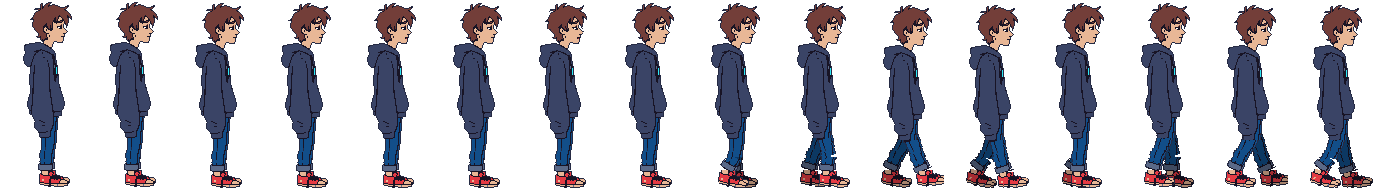
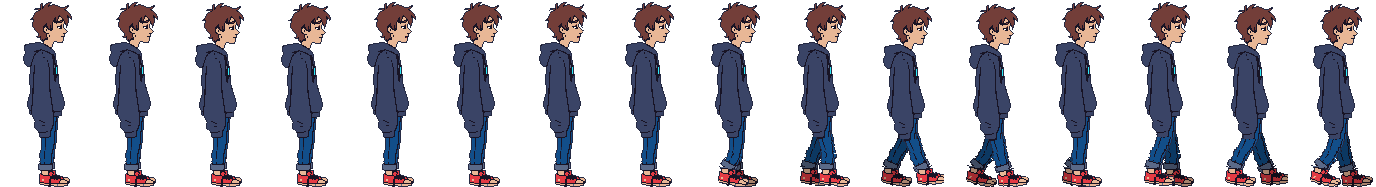
Max und Opa: Füße stehen beim Atmen still, keine Kerbe am Knie, Opas Saum ohne graue Streifen
- Rig: Beine hängen nicht mehr am Körper, Atmen bewegt nur Oberkörper und Kopf
  (vorher hüpfte die ganze Figur ein Pixel)
- gehen: Unterschenkel und Fuß reichen zwei Zeilen ins Teil darüber
- Opa: hellgraue Kanten am Saum und weißer Fleck am Knöchel umgefärbt
- vierbeiner: Körper wird über die Beine gezeichnet
- Referenzbilder der drei Prolog-Räume neu

Claude-Session: https://claude.ai/code/session_01GrSQs3gebjMzDc1mDnVTTC

diff --git a/tools/figur.py b/tools/figur.py
@@ -447,6 +447,8 @@ def gehen(sprite_rgba, bein_ab, huefte, knie, knoechel=None, bilder=8, schritt=2
                np.array([mitte(knoechel - 1), knoechel], float)]
     teile = []
     for von, bis in ((bein_ab, knie), (knie, knoechel), (knoechel, h)):
+        # Unterschenkel und Fuß reichen zwei Zeilen ins Teil darüber, damit am Knick keine Kerbe bleibt
+        von = von if von == bein_ab else max(bein_ab, von - 2)
         m = np.zeros_like(deckt); m[von:bis] = deckt[von:bis]; teile.append(m)
     # Oberschenkel unter dem Pulli nach oben verlängern, damit beim Schwingen keine Lücke an der Hüfte entsteht
     quelle = a.copy()
@@ -573,12 +575,13 @@ def vierbeiner(sprite_rgba, bauch, knie, vorne, hinten, schulter=None, bilder=8,
         # Katzengang: hinten nah 0, vorne nah 1/4, hinten fern 1/2, vorne fern 3/4 Umlauf
         for nr, ph, f, dx in ((1, 1.5 * math.pi, dunkel, -versatz), (0, math.pi, dunkel, -versatz)):
             bein(out, *beine[nr], *gang(t + ph), f, dx)
+        for nr, ph in ((0, 0.0), (1, 0.5 * math.pi)):
+            bein(out, *beine[nr], *gang(t + ph), 1.0, 0)
+        # Körper zuletzt: die Beine kommen unter dem Bauch hervor, ihr oberes Ende verschwindet im Fell
         k = np.zeros((H, W, 4), np.uint8); k[rand:rand + h, rand:rand + w] = koerper
         if wippen:   # ein Pixel auf und ab, zweimal je Umlauf (jedes Beinpaar trägt einmal)
             k = np.roll(k, -int(round(0.5 - 0.5 * math.cos(2 * t))), axis=0)
         sicht = k[..., 3] > 0; out[sicht] = k[sicht]
-        for nr, ph in ((0, 0.0), (1, 0.5 * math.pi)):
-            bein(out, *beine[nr], *gang(t + ph), 1.0, 0)
         frames.append(out)
     return frames
 
